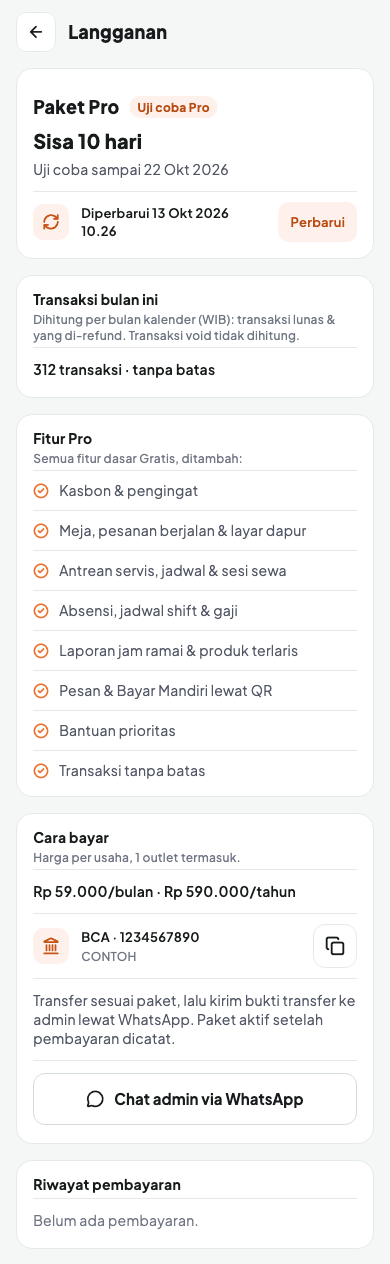
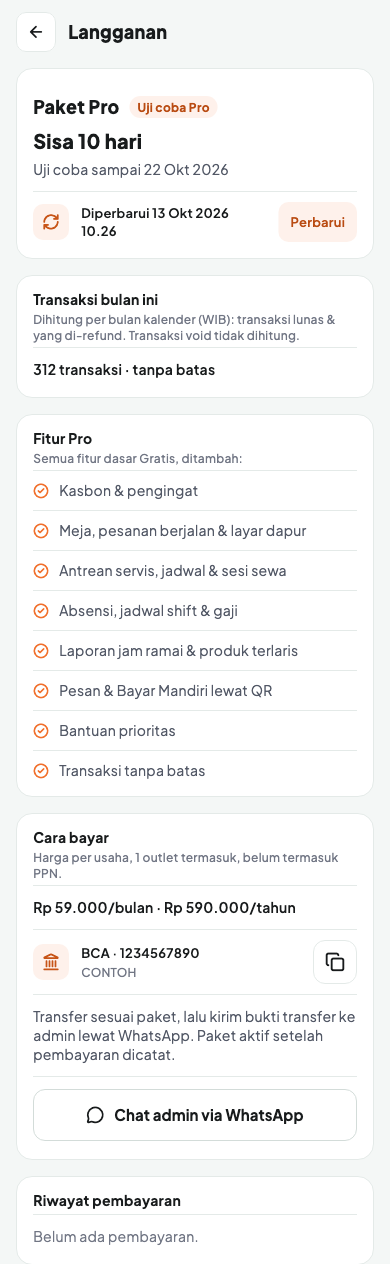
fix(konten): harga belum termasuk PPN; Pesan & Bayar Mandiri QR sudah tersedia
- /harga & bagian Harga beranda: "Harga belum termasuk PPN."
- Pesan lewat QR di meja tidak lagi "Segera hadir"; masuk daftar fitur Pro
  di kartu Pro, tabel perbandingan, dan tabel harga beranda.
- Panduan Langganan: harga belum termasuk PPN, rekening ditanyakan lewat
  WhatsApp bila belum tampil; tangkapan layar diperbarui.

Changed region(s): [[0.0923, 0.6788, 0.9231, 0.8948], [0.0615, 0.9256, 0.4923, 0.9873]]

diff --git a/src/constants/guides.ts b/src/constants/guides.ts
@@ -1335,7 +1335,6 @@ export const GUIDES: GuideItem[] = [
       "Dengan Pesan & Bayar Mandiri, pelanggan memindai QR di meja, memilih menu dari HP tanpa memasang aplikasi, lalu menyebut nomor pesanannya ke kasir untuk membayar. Setelah lunas, pesanan langsung masuk dapur. Fitur ini termasuk paket Pro.",
     prerequisites: [
       "Paket Pro atau masa uji coba Pro aktif.",
-      "Menu “Pesan & Bayar Mandiri” sudah tersedia untuk bisnismu. Bila halaman menulis “belum diaktifkan untuk bisnis ini”, hubungi Sissi.",
       "Produk sudah dibuat. Untuk QR per meja, meja juga sudah dibuat di menu Meja.",
     ],
     steps: [
@@ -2746,13 +2745,13 @@ export const GUIDES: GuideItem[] = [
         title: "Berlangganan atau memperpanjang Pro",
         description: "Pembayaran Pro saat ini dilakukan manual lewat transfer, lalu dikonfirmasi admin Sissi.",
         steps: [
-          "Di halaman Langganan, lihat kartu “Cara bayar”: harga bulanan/tahunan, rekening tujuan, dan petunjuk dari admin. Ketuk ikon salin untuk menyalin nomor rekening.",
+          "Di halaman Langganan, lihat kartu “Cara bayar”: harga bulanan/tahunan, rekening tujuan, dan petunjuk pembayaran. Ketuk ikon salin untuk menyalin nomor rekening. Bila rekening belum tampil, tanyakan lewat “Chat admin via WhatsApp”.",
           "Transfer sesuai harga paket yang dipilih.",
           "Ketuk “Chat admin via WhatsApp”. Pesan berisi nama usahamu sudah terisi; kirim beserta bukti transfer.",
           "Setelah admin mencatat pembayaran, status menjadi “Pro aktif” dan HP pemilik menerima notifikasi “Pro aktif sampai …”. Riwayatnya tampil di kartu “Riwayat pembayaran”.",
         ],
         points: [
-          "Harga berlaku per usaha dengan 1 outlet termasuk.",
+          "Harga berlaku per usaha dengan 1 outlet termasuk, dan belum termasuk PPN.",
           "Bila diperpanjang sebelum habis, masa baru disambung dari tanggal berakhir yang lama, jadi tidak ada hari yang hilang.",
         ],
       },

diff --git a/src/app/fitur/page.tsx b/src/app/fitur/page.tsx
@@ -8,7 +8,7 @@ import { AjakanSection } from "@/components/sections/AjakanSection";
 export const metadata: Metadata = {
   title: "Fitur · Sissi POS",
   description:
-    "Kasir offline, QRIS statis, printer Bluetooth & Wi-Fi, layar dapur, impor produk CSV, varian dan HPP dari resep, stok bahan baku, PO dan opname, shift, laporan, absensi dan gaji, order servis, serta booking sewa. Semua di HP dan tablet Android.",
+    "Kasir offline, QRIS statis, printer Bluetooth & Wi-Fi, layar dapur, pesan lewat QR meja, impor produk CSV, varian dan HPP dari resep, stok bahan baku, PO dan opname, shift, laporan, absensi dan gaji, order servis, serta booking sewa. Semua di HP dan tablet Android.",
 };
 
 interface FeatureItem {
@@ -93,8 +93,7 @@ const FEATURE_BLOCKS: FeatureBlock[] = [
       },
       {
         title: "Pesan lewat QR di meja",
-        description: "Pelanggan memesan dan membayar sendiri dari HP-nya.",
-        soon: true,
+        description: "Pelanggan memindai QR, memesan dari HP-nya, lalu bayar di kasir; setelah lunas pesanan langsung masuk dapur.",
       },
     ],
   },

diff --git a/src/app/harga/page.tsx b/src/app/harga/page.tsx
@@ -150,6 +150,7 @@ export default function HargaPage() {
                   "Transaksi tanpa batas",
                   "Semua fitur Gratis",
                   "Meja, pesanan berjalan & layar dapur",
+                  "Pesan & Bayar Mandiri lewat QR",
                   "Antrean servis, jadwal & sesi sewa",
                   "Kasbon dengan pengingat",
                   "Kehadiran, jadwal & gaji",
@@ -168,7 +169,7 @@ export default function HargaPage() {
 
           {/* Pricing Note */}
           <p className="text-[14px] text-[#7d8986] text-left">
-            Harga sudah termasuk PPN. Outlet tambahan dikenakan biaya terpisah.
+            Harga belum termasuk PPN. Outlet tambahan dikenakan biaya terpisah.
           </p>
         </div>
       </section>

diff --git a/src/components/sections/HargaSection.tsx b/src/components/sections/HargaSection.tsx
@@ -193,7 +193,7 @@ export function HargaSection() {
 
           {/* Footer Note - Left-aligned, no border, no background, pt-5 */}
           <div className="pt-5 text-left text-[14px] text-[#7d8986]">
-            Harga sudah termasuk PPN. Outlet tambahan dikenakan biaya terpisah.
+            Harga belum termasuk PPN. Outlet tambahan dikenakan biaya terpisah.
           </div>
         </div>
       </div>

diff --git a/src/constants/pricingComparison.ts b/src/constants/pricingComparison.ts
@@ -27,7 +27,7 @@ export const PRICING_COMPARISON: PricingComparisonCategory[] = [
     items: [
       { name: "Meja & pesanan berjalan", gratis: false, pro: true },
       { name: "Layar dapur", gratis: false, pro: true },
-      { name: "Pesan & Bayar Mandiri lewat QR", gratis: false, pro: "Segera hadir" },
+      { name: "Pesan & Bayar Mandiri lewat QR", gratis: false, pro: true },
     ],
   },
   {

diff --git a/src/constants/pricing.ts b/src/constants/pricing.ts
@@ -92,6 +92,11 @@ export const PRICING_FEATURES: FeatureComparisonItem[] = [
     proValue: true,
   },
   {
+    name: "Pesan & Bayar Mandiri lewat QR",
+    freeValue: false,
+    proValue: true,
+  },
+  {
     name: "Antrean servis, jadwal & sesi sewa",
     freeValue: false,
     proValue: true,
